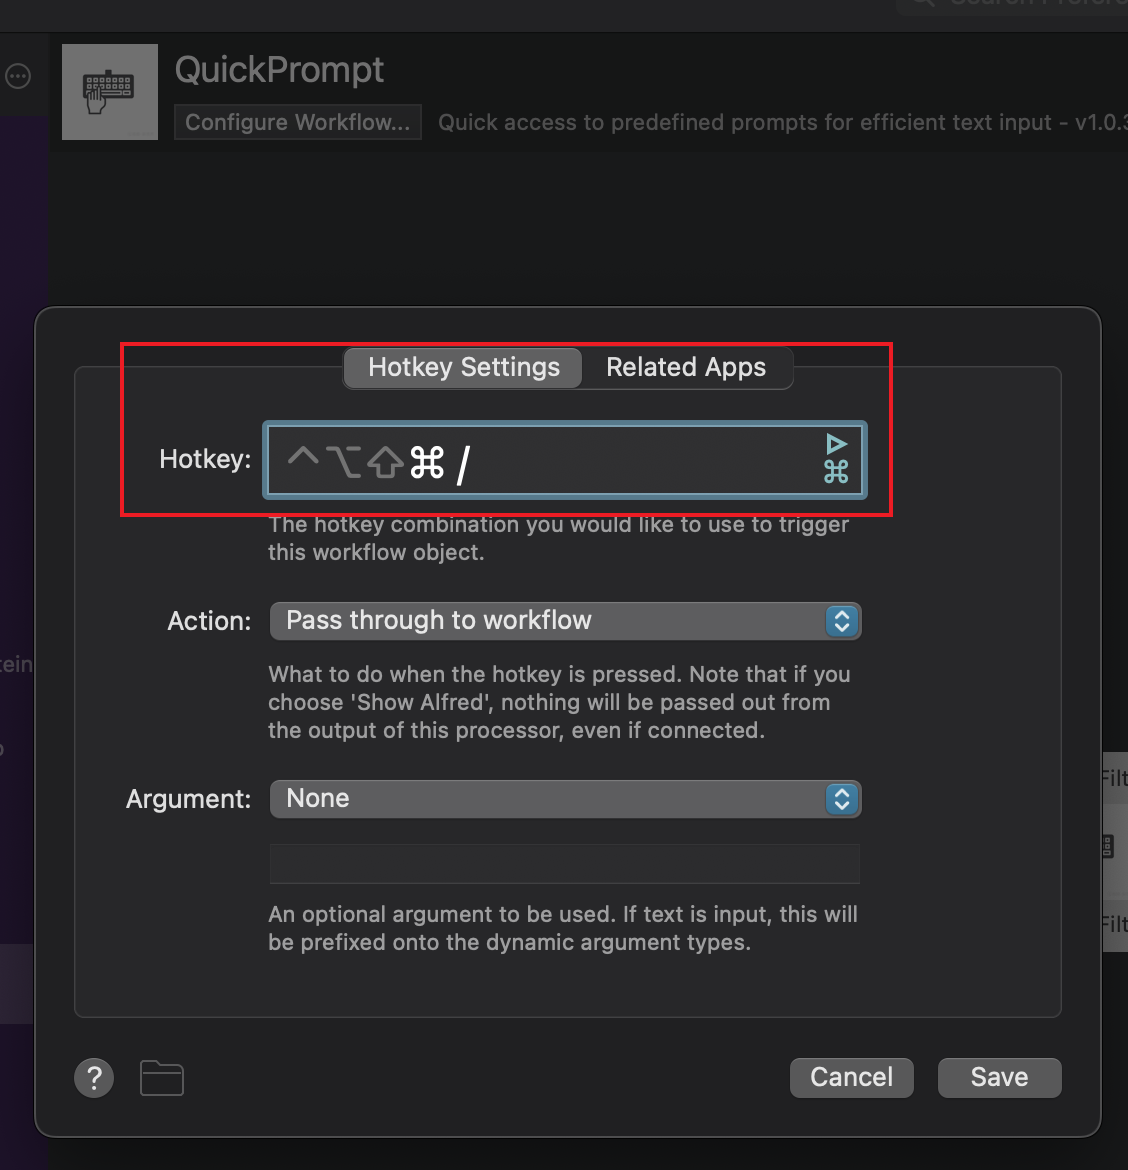
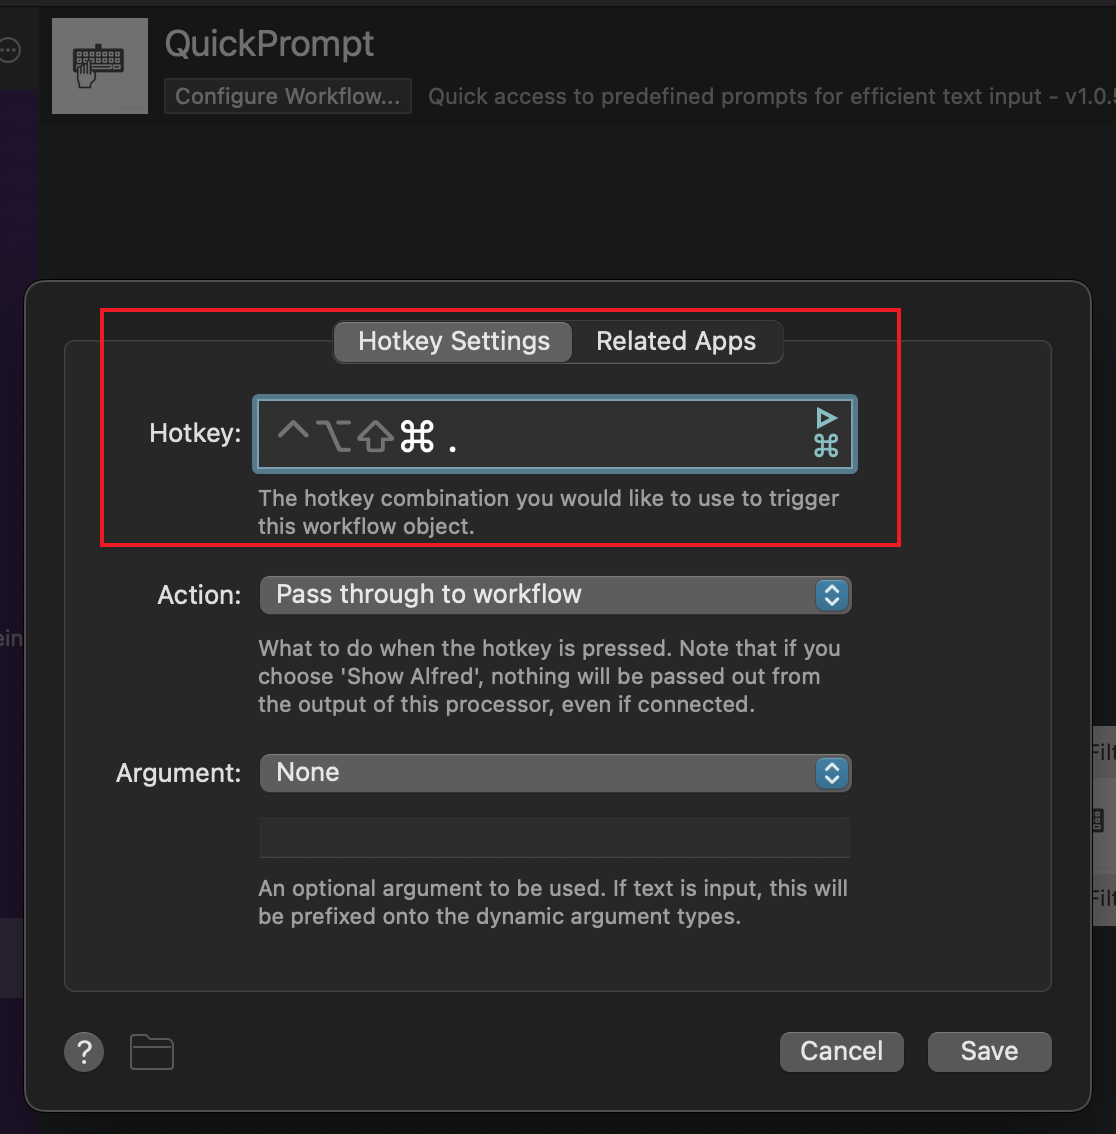
modify readme

diff --git a/readme.md b/readme.md
@@ -4,13 +4,13 @@
 
 QuickPrompt is an Alfred workflow designed to enhance text input efficiency by providing quick access to predefined prompts.
 
-When working with large language models, users often need to input specific prompts to enhance the quality of model outputs. This workflow enables quick access to various preset scenarios through the hotkey `Command + /`, allowing you to efficiently input these prompts.
+When working with large language models, users often need to input specific prompts to enhance the quality of model outputs. This workflow enables quick access to various preset scenarios through the hotkey `Command + .`, allowing you to efficiently input these prompts.
 
 ![Example](figs/example.png)
 
 ## Features
 
--   Global hotkey `Command + /` for instant access
+-   Global hotkey `Command + .` for instant access
 -   Multiple preset scenarios:
 
     -   🔠⇨🔠 Academic English Writing Polish
@@ -26,13 +26,13 @@ When working with large language models, users often need to input specific prom
 
 Download `QuickPrompt.alfredworkflow` from the [Release page](https://github.com/ZinYY/QuickPrompt_AlfredWorkflow/releases) and double-click to install.
 
-Open `Workflows -> QuickPrompt -> Hotkey`, set the hotkey (recommended `Command + /`)
+Open `Workflows -> QuickPrompt -> Hotkey`, set the hotkey (recommended `Command + .`)
 
 ![Set Hotkey](figs/set_hotkey.png)
 
 ## How to Use
 
-1. Press `Command + /` to invoke QuickPrompt
+1. Press `Command + .` to invoke QuickPrompt
 2. Type keywords to search for desired prompts (supports both English and Chinese)
 3. Select the prompt, and it will be automatically inserted at the beginning of the text
 
